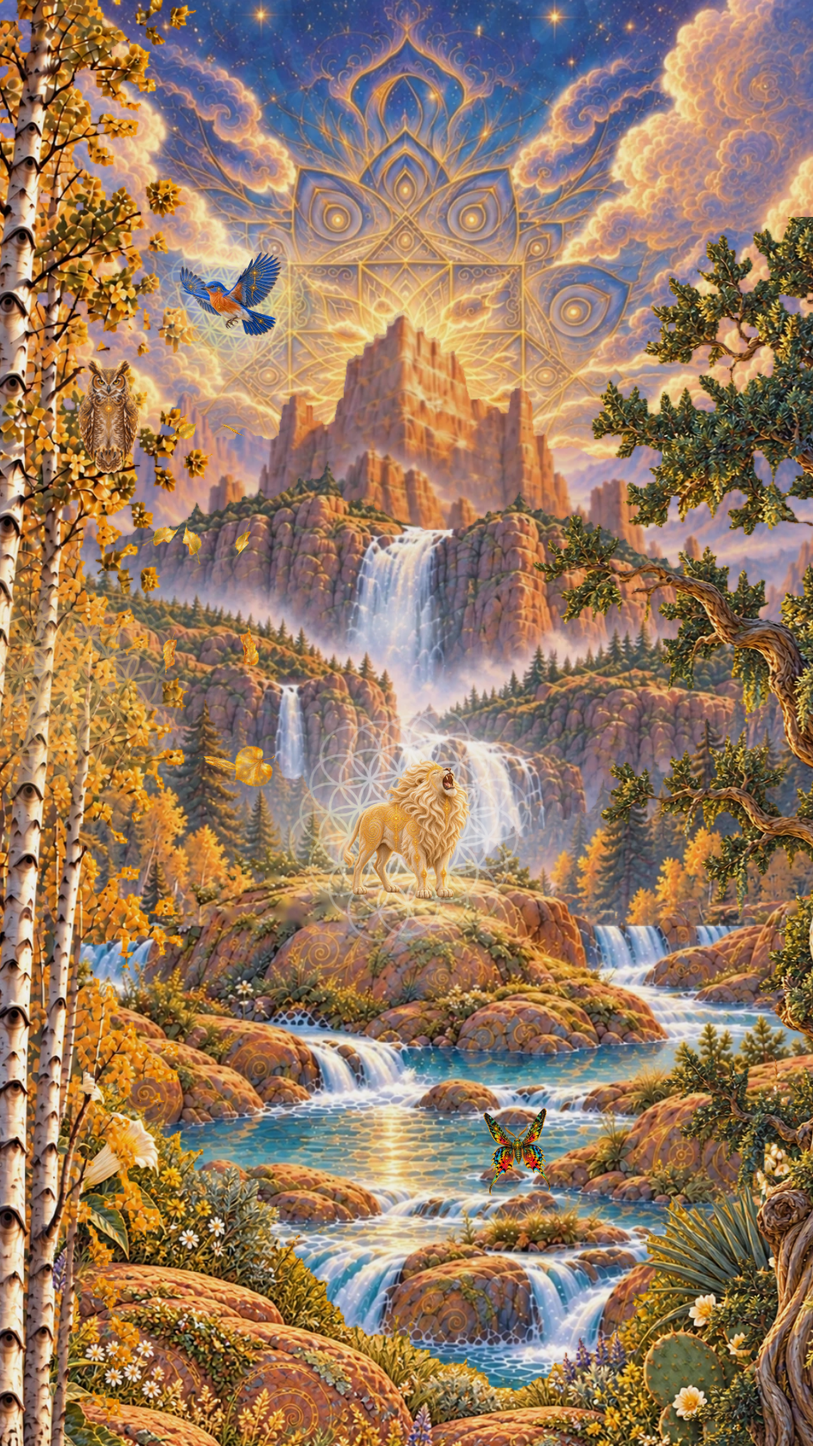
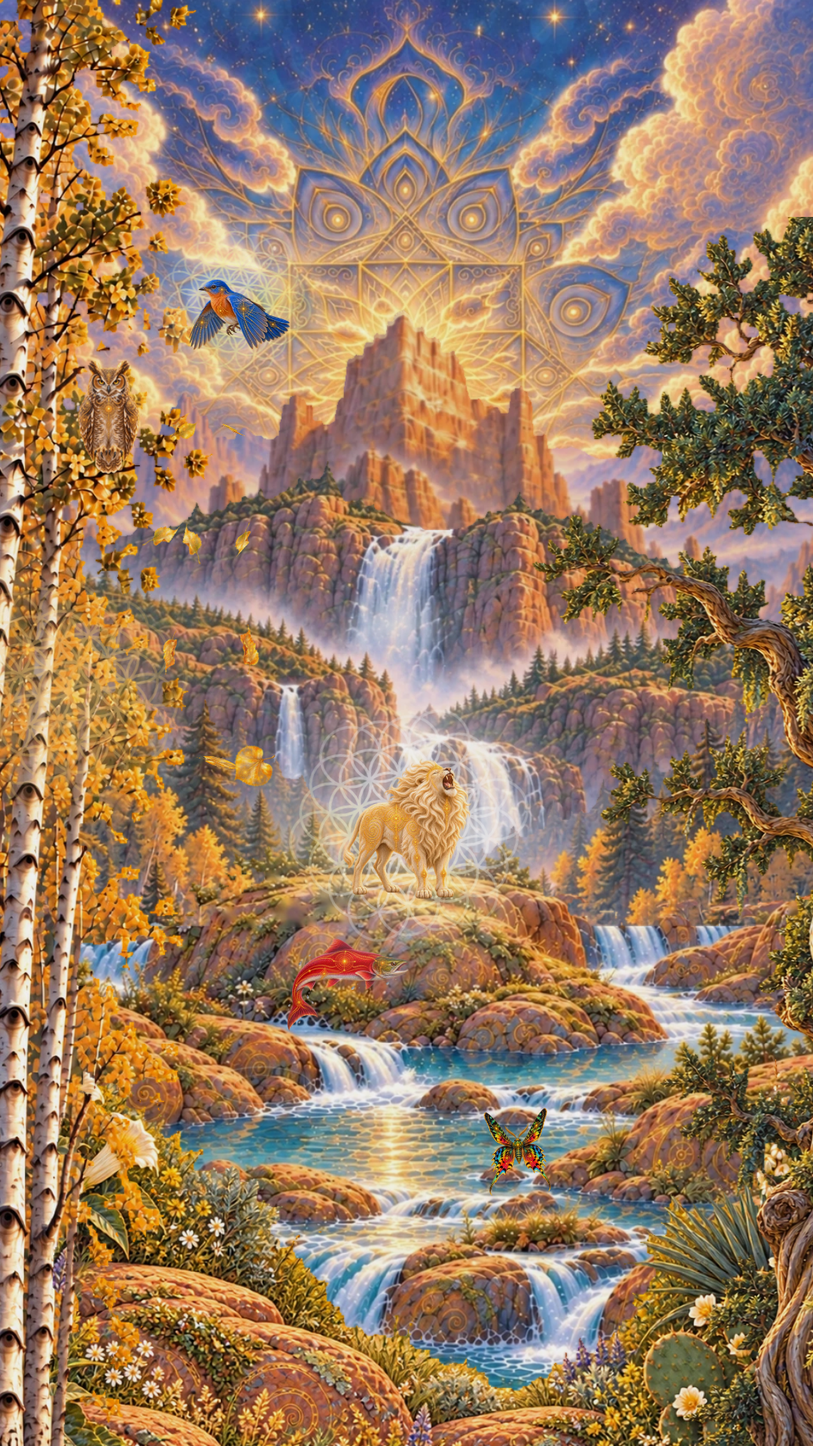
Roar: the salmon leaps too, at the top of its arc in the finale's first frame
Claude-Session: https://claude.ai/code/session_01X5u2D9a4RRbbCvwnE6RQKF

Changed region(s): [[0.2139, 0.1562, 0.3667, 0.25], [0.3361, 0.625, 0.4889, 0.7188], [0.6111, 0.7812, 0.6722, 0.8125]]

diff --git a/frontend/src/components/site/journeyEngine.js b/frontend/src/components/site/journeyEngine.js
@@ -139,6 +139,9 @@ const POOL = { x: 180, y: 560, w: 520, h: 270 }, SALMON_AT = 19, SALMON_EVERY_S 
 const SALMON_X = [110, 300], SALMON_DEPTH = 40, SALMON_RISE = 640, SALMON_W = 150;
 const SALMON_SURF_U = (1 - Math.sqrt(1 - 4 * SALMON_DEPTH / SALMON_RISE)) / 2;
 const salmonU = (T) => { const s = ((T % SALMON_EVERY_S) + SALMON_EVERY_S) % SALMON_EVERY_S; return (s - SALMON_AT) / SALMON_LEAP_S; };
+// the roar makes the salmon leap once on its own clock (c.roarAt), peaking at the finale's first frame
+const leapU = (c, t, T) => (c.roarAt ? (t - c.roarAt) / SALMON_LEAP_S : salmonU(T));
+const ROAR_LEAP_S = 2.0 - SALMON_LEAP_S / 2;   // leap starts this long after the roar: top of the arc at 2s
 // the bison's abundance: flowers that bloom in the grass around its hooves when it's called
 // ([x %, y % of the ground ring, size, delay s, petal colour])
 const BLOOMS = [[0, 64, 1, .35, "#fff6e6"], [14, 26, .8, .5, "#ffe2a8"], [30, 84, 1.1, .2, "#fff6e6"], [46, 14, .75, .65, "#ffd9e4"],
@@ -222,7 +225,7 @@ const CREATURES = [
   { kind: "owl", layer: "aspens", w: OWL.w, pose: () => ({ x: OWL.x, y: OWL.y }) },
   { kind: "aspen", layer: "aspens", w: 230, pose: () => ({ x: 120, y: 800 }) },
   { kind: "salmon", layer: "river", w: POOL.w, pose: (t, p, c, T) => {
-    const u = salmonU(T);
+    const u = leapU(c, t, T);
     if (u < -0.55 || u > 1) return null;
     return { x: POOL.x, y: POOL.y, u };
   } },
@@ -230,7 +233,7 @@ const CREATURES = [
   ...[[-0.5, SALMON_X[0]], [SALMON_SURF_U, SALMON_X[0] + (SALMON_X[1] - SALMON_X[0]) * SALMON_SURF_U],
     [1 - SALMON_SURF_U, SALMON_X[0] + (SALMON_X[1] - SALMON_X[0]) * (1 - SALMON_SURF_U)]].map(([at, x], i) =>
     ({ kind: "splash", layer: "river", w: i ? 120 : 70, glint: !i, pose: (t, p, c, T) => {
-      const r = (salmonU(T) - at) * SALMON_LEAP_S / (i ? 1.1 : 0.7);
+      const r = (leapU(c, t, T) - at) * SALMON_LEAP_S / (i ? 1.1 : 0.7);
       if (r < 0 || r > 1) return null;
       return { x: POOL.x + x, y: POOL.y + POOL.h, scale: i ? 0.25 + 0.95 * r : 0.6 + 0.6 * Math.sin(Math.PI * r), op: i ? (1 - r) * 0.9 : Math.sin(Math.PI * r) };
     } })),
@@ -528,6 +531,7 @@ export function mountJourney(root, { start = "hero", navigate } = {}) {
     if (perch) { perch.returnAt = 0; perch.flyAt = now + 0.15; perch.el.classList.remove("is-on"); }
     if (butterfly && butterfly.emerged) { butterfly.returnAt = 0; butterfly.flyAt = now; butterfly.el.classList.remove("is-on"); }
     if (owl) { owl.classList.add("look"); later(() => owl.classList.add("open"), 450); }
+    for (const c of CREATURES) if (c.kind === "salmon" || c.kind === "splash") { c.roarAt = now + ROAR_LEAP_S; c.burst = true; }
     const ref = layerOf.aspens.el.nextSibling;
     for (let i = 0; i < 10; i++) {
       const lx = 120 + (i * 53) % 150, ly = 300 + (i * 137) % 520;
